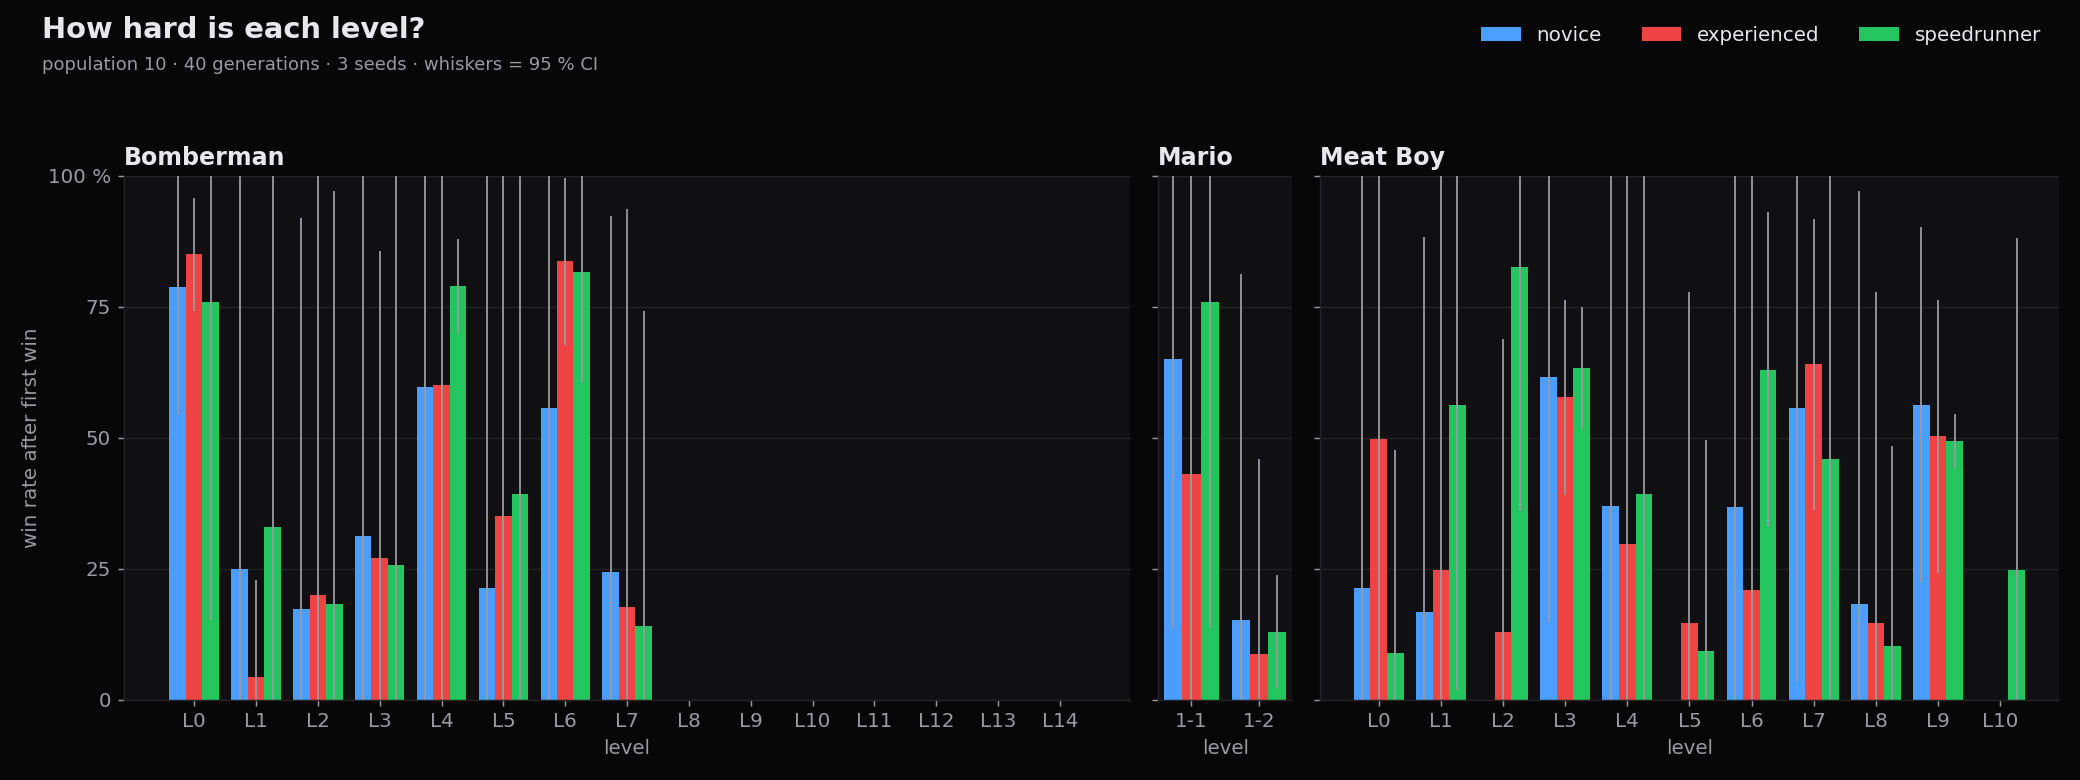
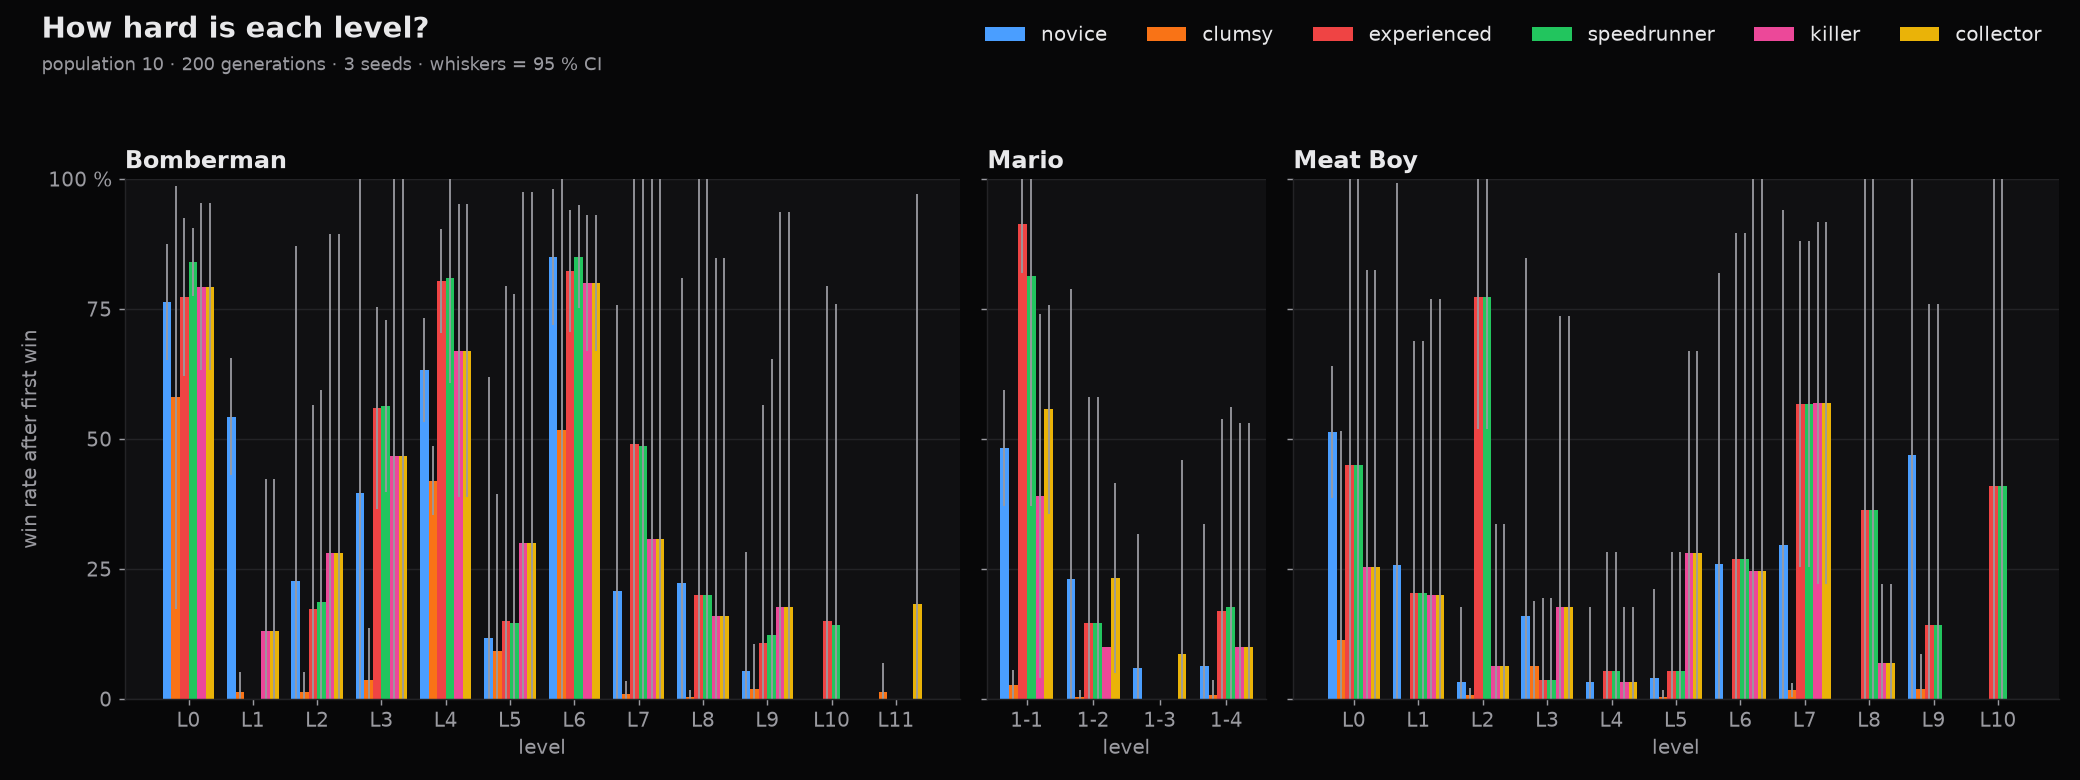
README and figures for the six-persona results
Figures rebuilt (menu 16) from the six-persona sweeps: 200-gen difficulty,
18-sweep capacity, sensor ablation and GA-knob heat-map. figures.py plots only
personas that still exist, so the removed good persona's results on disk stay
out. README findings, persona table and test count (154) updated; the
trainer's no-event note now says the persona plays for the goal alone.

diff --git a/code/neuro/figures.py b/code/neuro/figures.py
@@ -19,7 +19,7 @@ from matplotlib.colors import LinearSegmentedColormap, TwoSlopeNorm
 
 from .balance import BALANCE_DIR, mean_ci
 from .gasweep import AXES, paired_delta
-from .personas import COLORS
+from .personas import COLORS, PERSONAS
 from .report import GA_DOC, _ablation_pairs, _gasweep_groups, _gs_baseline_label, _load_json_glob, _sweep_point
 
 IMG_DIR = os.path.join(os.path.dirname(os.path.abspath(__file__)), "..", "..", "docs", "img")
@@ -256,9 +256,11 @@ def main() -> None:
     ap.add_argument("--readme", action="store_true", help="refresh the stamp between the README figure markers")
     args = ap.parse_args()
     os.makedirs(args.out, exist_ok=True)
-    reports = _load_json_glob(os.path.join(args.dir, "report_*.json"))
-    ablations = _load_json_glob(os.path.join(args.dir, "ablation_*.json"))
-    gasweeps = _load_json_glob(os.path.join(args.dir, "gasweep_*.json"))
+    def current(ds: list[dict]) -> list[dict]:  # results of removed personas stay on disk, not in the figures
+        return [d for d in ds if (d.get("persona") or "experienced") in PERSONAS]
+    reports = current(_load_json_glob(os.path.join(args.dir, "report_*.json")))
+    ablations = current(_load_json_glob(os.path.join(args.dir, "ablation_*.json")))
+    gasweeps = current(_load_json_glob(os.path.join(args.dir, "gasweep_*.json")))
     groups = _gasweep_groups(gasweeps)
     made = []
     for name, fn, data in (("difficulty", fig_difficulty, reports), ("capacity", fig_capacity, groups),

diff --git a/code/neuro/trainer.py b/code/neuro/trainer.py
@@ -299,7 +299,7 @@ class Trainer:
         dead = [e for e in self.persona.weights if not have.get(e)]
         if dead:
             print(f"  note: {self.game} level [{self.level}] has no {'/'.join(dead)} — persona "
-                  f"[{self.persona.name}] plays like 'experienced' here", flush=True)
+                  f"[{self.persona.name}] plays for the goal alone here", flush=True)
 
     def run_generation(self) -> list[float]:
         for i, slot in enumerate(self.slots):

diff --git a/README.md b/README.md
@@ -10,7 +10,7 @@
   <img src="https://img.shields.io/badge/agent-291%20weights-ef4444?style=flat-square" alt="291 weights">
   <img src="https://img.shields.io/badge/deterministic-seed%2042-22c55e?style=flat-square" alt="Deterministic">
   <img src="https://img.shields.io/badge/GPU-not%20required-9a9a9a?style=flat-square" alt="No GPU">
-  <img src="https://img.shields.io/badge/tests-80%20passing-22c55e?style=flat-square" alt="80 tests">
+  <img src="https://img.shields.io/badge/tests-154%20passing-22c55e?style=flat-square" alt="154 tests">
 </p>
 
 <p align="center">
@@ -68,39 +68,44 @@ same run — bit for bit.
 ## What the probes found
 
 <!-- figures:auto -->
-Everything below comes straight out of `runs/balance/*.json` — the same data the command center renders. Figures regenerated 2026-08-22 from 9 sweep reports, 12 ablation arms and 144 GA-sweep configs (`python menu.py` → 16: fig_difficulty.png, fig_capacity.png, fig_sensors.png, fig_knobs.png).
+Everything below comes straight out of `runs/balance/*.json` — the same data the command center renders. Figures regenerated 2026-10-24 from 45 sweep reports, 36 ablation arms and 438 GA-sweep configs (`python menu.py` → 16: fig_difficulty.png, fig_capacity.png, fig_sensors.png, fig_knobs.png).
 <!-- /figures:auto -->
 
 <p align="center">
-  <img src="docs/img/fig_difficulty.png" alt="Win rate per level per persona for Mario and Meat Boy" width="900">
+  <img src="docs/img/fig_difficulty.png" alt="Win rate per level per persona for Bomberman, Mario and Meat Boy at 200 generations" width="900">
 </p>
 
-**Levels rank themselves.** Mario 1-1 is solved by every seed and persona; 1-2 is cracked by one seed
-in three for novice and experienced, and its win rate collapses below 15 % for all three. Meat Boy's
-eleven levels spread from "every seed, every persona" (L3, L9) to a level only the speedrunner solves
-(L10) — and that sprinting persona is the *worst* on L0 yet the best on L1 and L2. That spread is the
-design signal the tool exists to produce.
+**Levels rank themselves.** At 200 generations every persona solves Mario 1-1 on all three seeds
+(experienced 91 %, speedrunner 81 %, clumsy 3 %), while 1-3 is nearly a wall: only novice and
+collector win it, on one seed each. Meat Boy's sprinting personas own L2 (77 %) and are the only ones
+to solve L10; L4 stays below 6 % for everyone. Bomberman's ladder is not a ladder: L6 (≈ 80–90 %) is
+as easy as L0, and L1, L9–L11 are the hard rungs. Clumsy is the weakest persona in every game. That
+spread is the design signal the tool exists to produce.
 
 <table>
   <tr>
-    <td width="50%"><img src="docs/img/fig_capacity.png" alt="Generations to first win vs network size: flat from 147 to 1155 weights" width="100%"></td>
-    <td width="50%"><img src="docs/img/fig_sensors.png" alt="Paired delta win rate grid minus rays: rays win in all six sweeps" width="100%"></td>
+    <td width="50%"><img src="docs/img/fig_capacity.png" alt="Generations to first win vs network size: flat across the network sizes swept" width="100%"></td>
+    <td width="50%"><img src="docs/img/fig_sensors.png" alt="Paired delta win rate grid minus rays: rays win in all 18 sweeps" width="100%"></td>
   </tr>
   <tr>
-    <td><sub><b>Bigger nets don't win sooner.</b> Hidden size 8 → 64 (147 → 1,155 weights) leaves generations-to-first-win flat in all six sweeps. The bottleneck is the level, not the brain.</sub></td>
-    <td><sub><b>Fourteen rays beat 368 grid cells.</b> The tile-grid sensor loses in all six sweeps (★ = clears its 95 % CI). More input is more weights to evolve, not more insight.</sub></td>
+    <td><sub><b>Bigger nets don't win sooner.</b> Across the network sizes swept, generations-to-first-win stays flat within the noise in all 18 sweeps (3 games × 6 personas). The bottleneck is the level, not the brain.</sub></td>
+    <td><sub><b>Fourteen rays beat 368 grid cells.</b> The tile-grid sensor loses in all 18 sweeps; the gap clears its 95 % CI for every persona except clumsy and Bomberman's novice. More input is more weights to evolve, not more insight.</sub></td>
   </tr>
 </table>
 
 <p align="center">
-  <img src="docs/img/fig_knobs.png" alt="Heat-map of paired win-rate change for every GA knob value vs the baseline, six sweeps" width="760">
+  <img src="docs/img/fig_knobs.png" alt="Heat-map of paired win-rate change for every GA knob value vs the baseline, 18 sweeps" width="760">
 </p>
 
-**One knob at a time.** 22 variants × 6 sweeps, each moved to its literature low or high bound
-(De Jong, Grefenstette, Miller & Goldberg, Such et al.). Only one change wins everywhere:
-annealing mutation ×0.5 after the first win — now the default. Population 100 is worse in 6/6
-(same budget in generations, ten times the compute); elite 6, σ 0.02 and no crossover each hurt a
-Meat Boy persona significantly; memory units only clear the noise for the sprinting speedrunner.
+**One knob at a time.** 22 variants × 18 sweeps, each moved to its literature low or high bound
+(De Jong, Grefenstette, Miller & Goldberg, Such et al.). Annealing mutation harder after the first
+win (×0.3 instead of ×0.5) helps almost everywhere and clears the noise in 8 of 18 sweeps. A bigger
+population (30 or 100) is the largest single gain for Meat Boy (+8 to +10 points, significant for
+every persona but clumsy) yet costs Mario's experienced player 13 points at 100. Action feedback
+hurts Mario's sprinting personas and every Bomberman persona but novice and clumsy; memory units hurt
+Mario's sprinters. The per-game winners are written to `code/neuro/ga_best.yaml`; at 200 generations
+they beat the defaults for every Bomberman persona tested and for Mario's killer and collector, but
+not for Meat Boy.
 
 ---
 
@@ -219,7 +224,7 @@ probe is a frozen, repeatable playtester you can diff level designs against.
 - Full determinism from one seed
 
 **Player personas** (`code/neuro/personas.py`)
-- Seven player types on two axes — skill (novice · clumsy · experienced · good) and play style (killer · collector · speedrunner); see [Player personas](#player-personas)
+- Six player types on two axes — skill (novice · clumsy · experienced) and play style (killer · collector · speedrunner); see [Player personas](#player-personas)
 
 </td>
 <td width="50%" valign="top">
@@ -259,10 +264,9 @@ or at the persona prompt in the TRAIN menus. Every persona plays the same game w
 |---|---|---|---|
 | `novice` | walk only, senses every 3rd frame | reaching the goal | can a new player finish this? |
 | `clumsy` | walk only, senses every 4th frame, a 0.2 s mis-press about every 0.5 s | reaching the goal | where does a clumsy player die? |
-| `experienced` | walk, senses every frame (the default) | reaching the goal | the baseline |
-| `good` | sprint, senses every frame, clean inputs | reaching the goal | how far does skill carry? |
-| `killer` | as `experienced` | goal **+ enemies killed** | does fighting pay, or is it a detour? |
-| `collector` | as `experienced` | goal **+ coins / power-ups picked up** | are the pickups worth the risk? |
+| `experienced` | sprint, senses every frame, clean inputs (the default) | reaching the goal | the baseline: how far does skill carry? |
+| `killer` | walk, senses every frame | goal **+ enemies killed** | does fighting pay, or is it a detour? |
+| `collector` | walk, senses every frame | goal **+ coins / power-ups picked up** | are the pickups worth the risk? |
 | `speedrunner` | sprint, senses every frame | goal **+ 25 per second left** on a win | is there a fast route? |
 
 **Event weights are shares of the goal.** `weights={"kills": 1.0}` means that killing every enemy
@@ -274,20 +278,21 @@ different utility over game events per player archetype.
 
 **A level without the event gives a plain player.** Meat Boy has no enemies or pickups; most of the
 Bomberman ladder has no power-ups. The trainer prints
-`note: meatboy level [0] has no kills — persona [killer] plays like 'experienced' here`.
+`note: meatboy level [0] has no kills — persona [killer] plays for the goal alone here`.
 
-**Measured** (40 generations, 3 seeds × 20 test episodes, Mario 1-1, 21 enemies):
+**Measured** (40 generations, 3 seeds × 20 test episodes, Mario 1-1, 21 enemies; measured before
+`experienced` took over the old `good` settings, so the walk-only row is the old `experienced`):
 
-| Persona | Win % | Kills |
+| Player | Win % | Kills |
 |---|---|---|
-| `experienced` | 100 | 2.7 |
+| walk-only, no bonus | 100 | 2.7 |
 | `killer` | 100 | **7.0** |
-| `good` | 100 | 4.7 |
+| `experienced` (sprint) | 100 | 4.7 |
 | `clumsy` | **20** | 2.1 |
 
-The killer kills 2.6× as many enemies and still wins every time; weights 0.5, 1.0 and 2.0 gave the
-same kill count, so 1.0 is the default. On Mario 1-2 (17 coins) the collector picked up 1.5–2.5
-coins against 0 for `experienced`.
+The killer kills 2.6× as many enemies as a player with the same hands and no bonus, and still wins
+every time; weights 0.5, 1.0 and 2.0 gave the same kill count, so 1.0 is the default. On Mario 1-2
+(17 coins) the collector picked up 1.5–2.5 coins against 0 for the walk-only player.
 
 **Add a persona** — one entry in `PERSONAS`:
 
